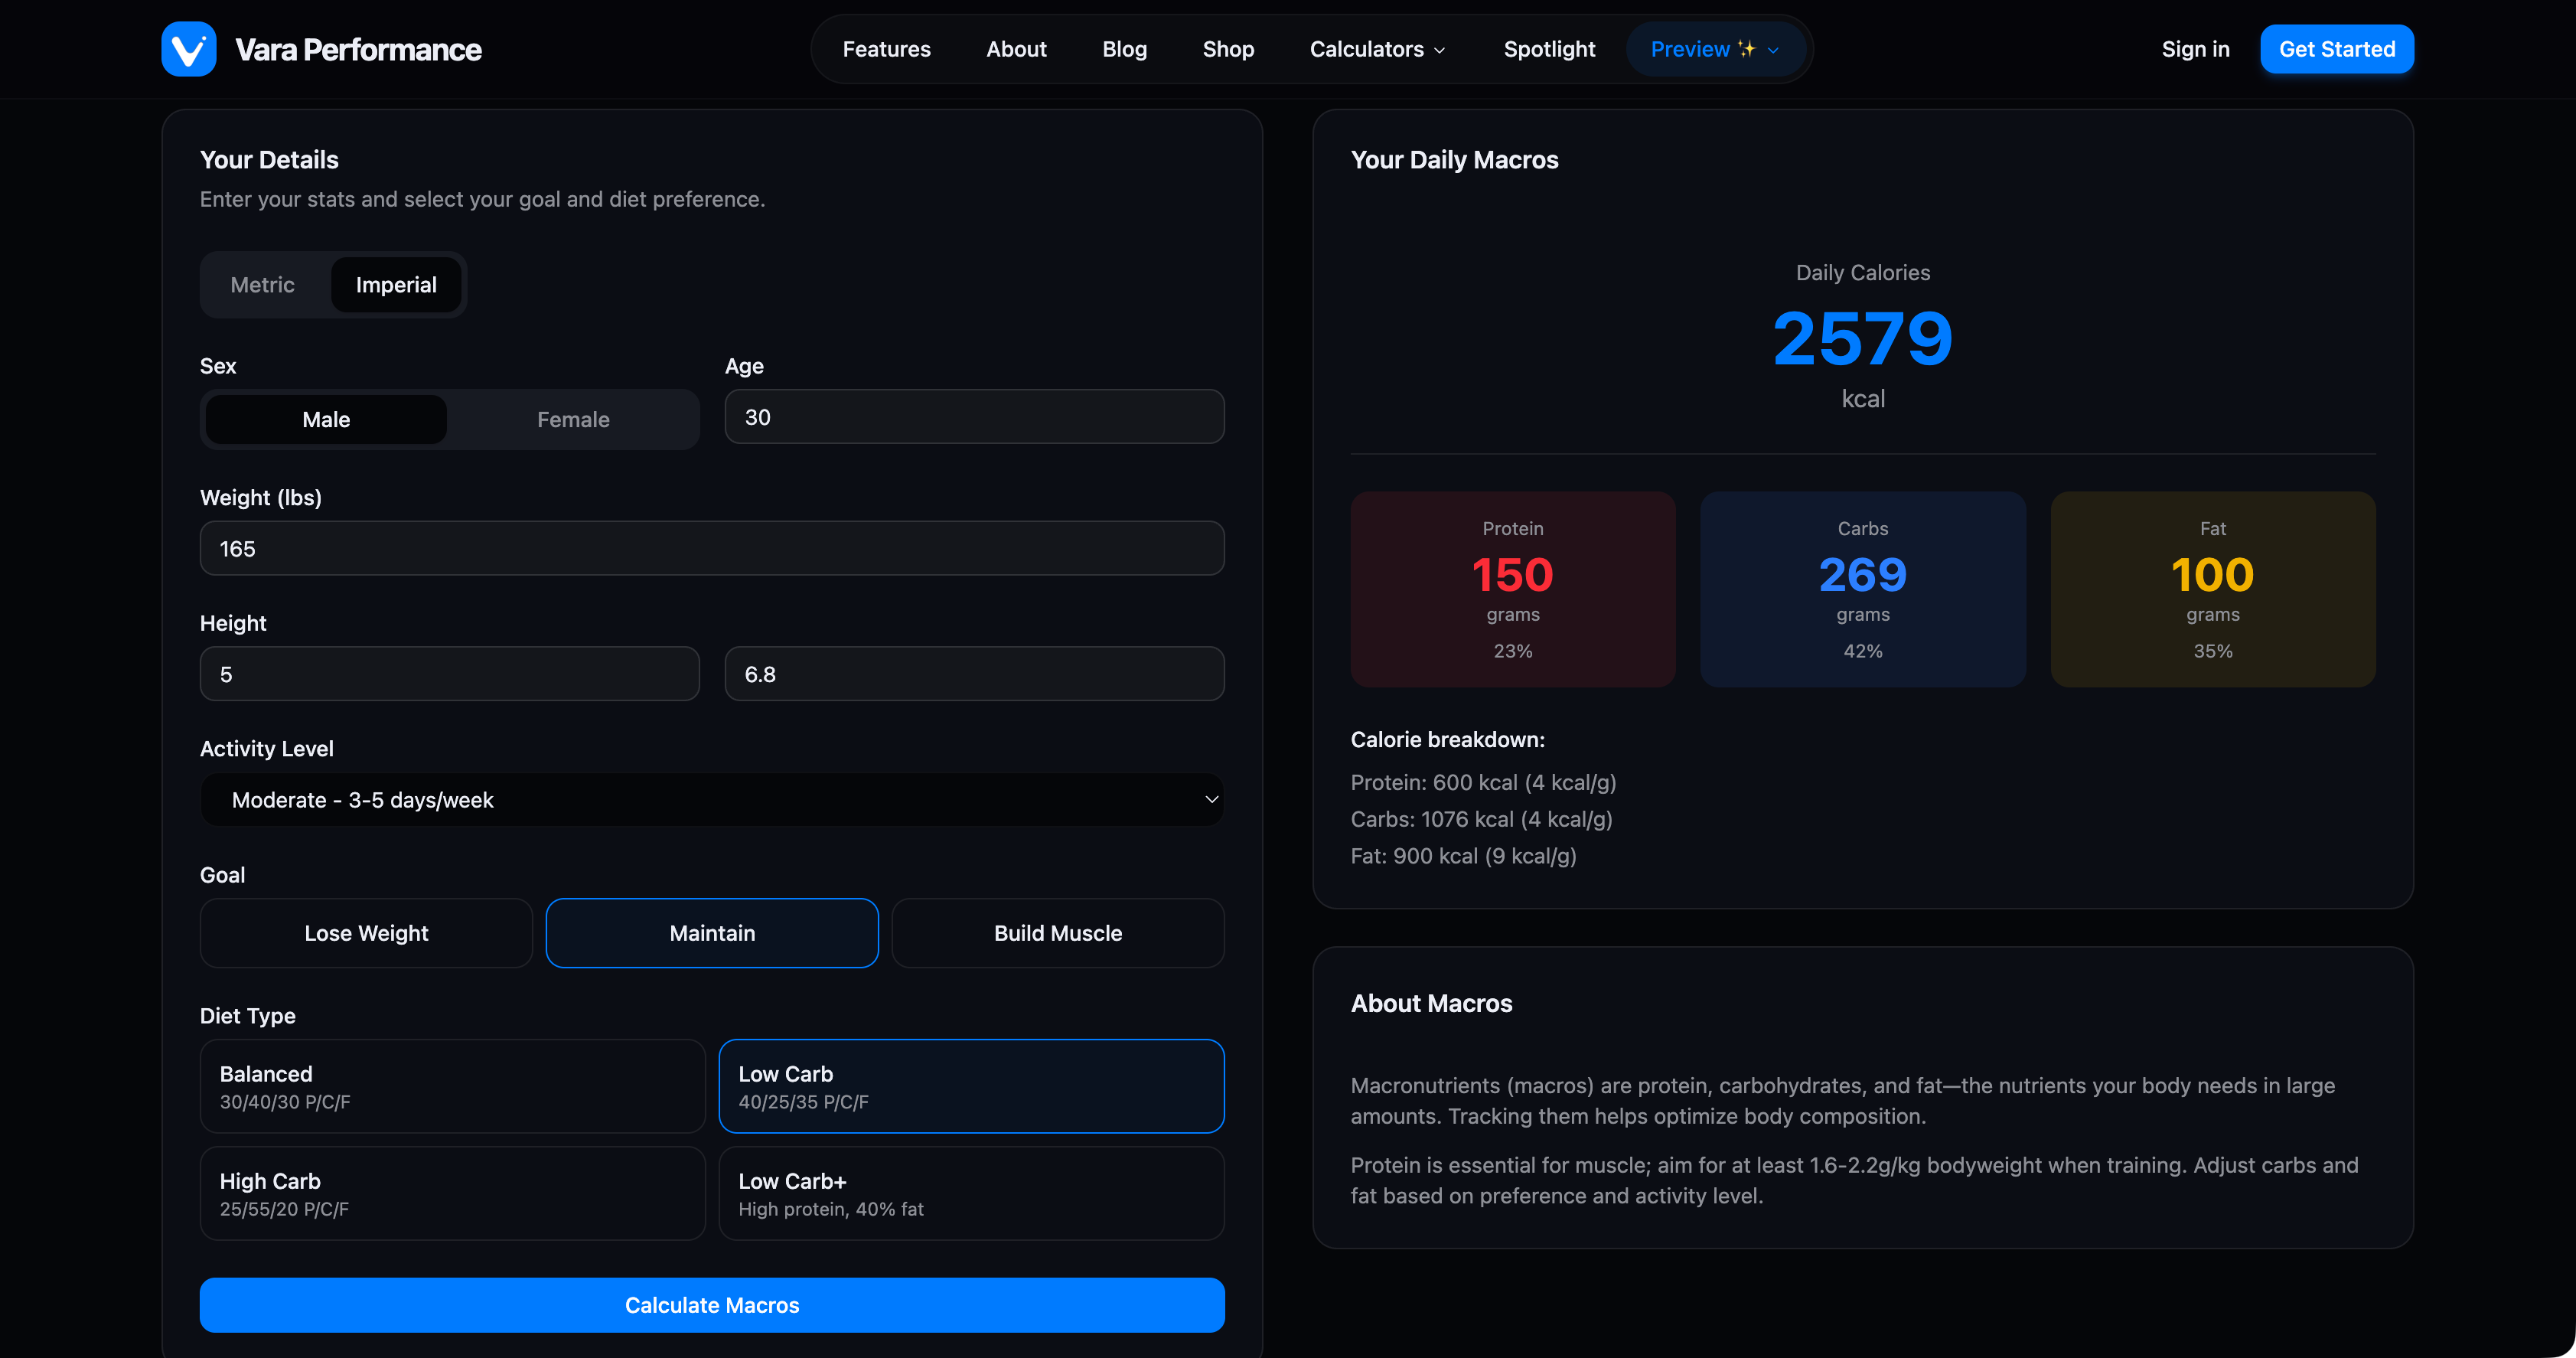
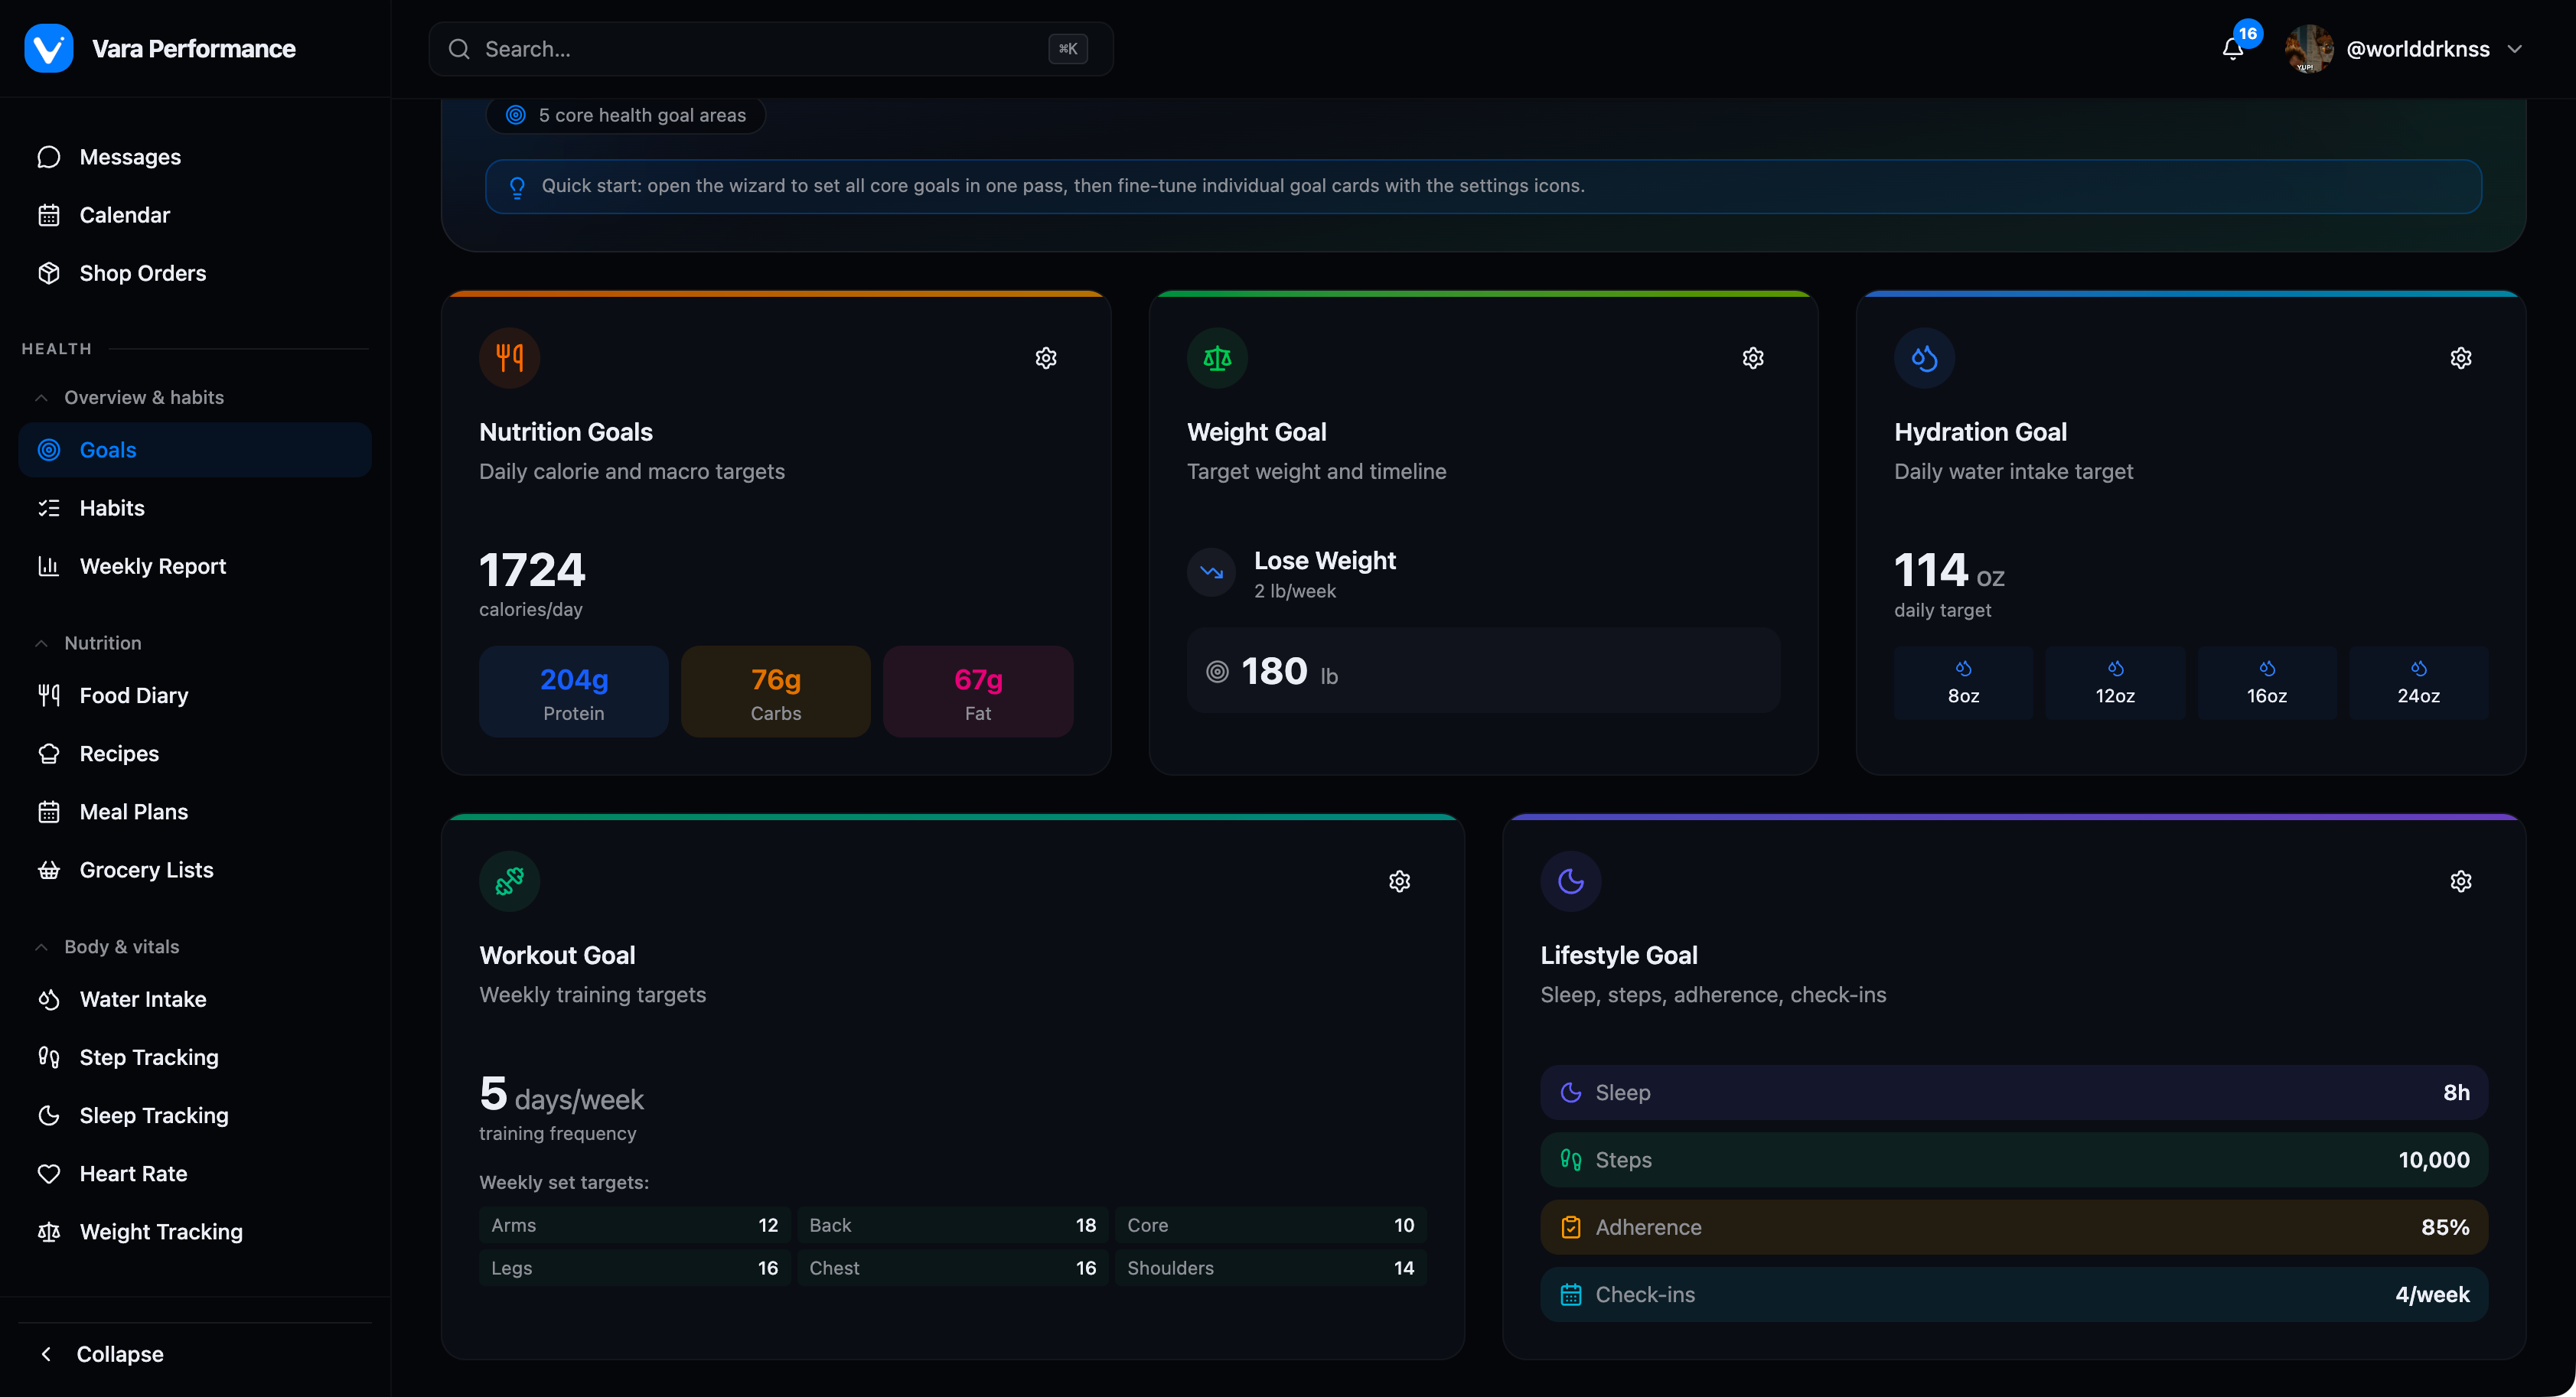
docs(README): update license information to reflect change from MIT to GNU AGPL v3

diff --git a/profile/README.md b/profile/README.md
@@ -13,7 +13,7 @@
 [![Website](https://img.shields.io/badge/varaperformance.com-22c55e?style=for-the-badge&logo=safari&logoColor=white)](https://varaperformance.com)
 [![Instagram](https://img.shields.io/badge/@varaperformance-E4405F?style=for-the-badge&logo=instagram&logoColor=white)](https://instagram.com/varaperformance)
 [![50K+ Members](https://img.shields.io/badge/50K+_Members-0f172a?style=for-the-badge&logo=users&logoColor=white)](https://varaperformance.com)
-[![GitHub](https://img.shields.io/badge/Open_Source-MIT-6D28D9?style=for-the-badge&logo=github&logoColor=white)](https://github.com/varaperformance/varaperformance)
+[![GitHub](https://img.shields.io/badge/Open_Source-AGPL_v3-6D28D9?style=for-the-badge&logo=github&logoColor=white)](https://github.com/varaperformance/varaperformance)
 
 `Barcode scan macros` · `Unlimited workouts` · `Real progress data` · `Encrypted health tools`
 
@@ -156,11 +156,11 @@ No hidden coach types. No recycled PDFs.
 
 ## Open Source & Self-Hostable
 
-Vara Performance is fully open source under the [MIT License](https://github.com/varaperformance/varaperformance/blob/main/LICENSE.md). The entire platform — backend API, web frontend, worker, and iOS app — is available on GitHub.
+Vara Performance is fully open source under the [GNU AGPL v3 License](https://github.com/varaperformance/varaperformance/blob/main/LICENSE.md). The entire platform — backend API, web frontend, worker, and iOS app — is available on GitHub.
 
 | | |
 |:--|:--|
-| **License** | MIT — use it, fork it, self-host it |
+| **License** | AGPL v3 — use it, fork it, self-host it (modifications must stay open source) |
 | **Stack** | NestJS · React · Prisma · PostgreSQL · Capacitor |
 | **Source** | [github.com/varaperformance/varaperformance](https://github.com/varaperformance/varaperformance) |
 | **Contributing** | Bug reports, feature requests, and PRs are welcome — see [CONTRIBUTING.md](https://github.com/varaperformance/varaperformance/blob/main/CONTRIBUTING.md) |
@@ -208,6 +208,6 @@ Native mobile experience via Capacitor with 17 integrated plugins — Apple Heal
 [![Source Code](https://img.shields.io/badge/View_Source-6D28D9?style=for-the-badge&logo=github&logoColor=white)](https://github.com/varaperformance/varaperformance)
 [![Email Us](https://img.shields.io/badge/[email redacted]-0f172a?style=for-the-badge&logo=gmail&logoColor=white)](mailto:[email redacted])
 
-<sub>© 2026 Vara Performance · Open source under the MIT License · Built for members, powered by community</sub>
+<sub>© 2026 Vara Performance · Open source under the GNU AGPL v3 License · Built for members, powered by community</sub>
 
 </div>